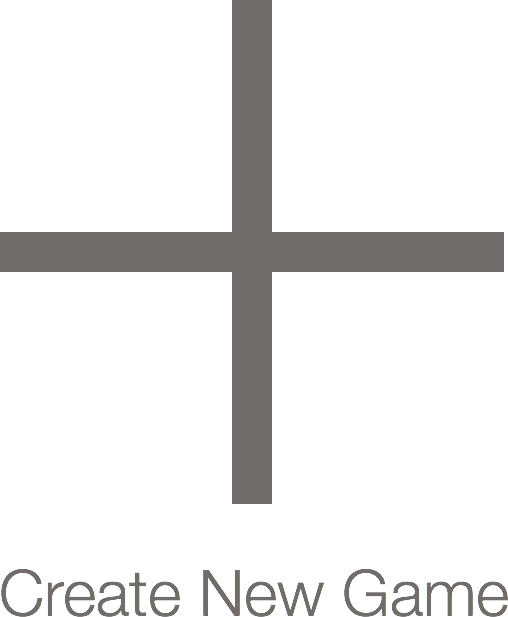
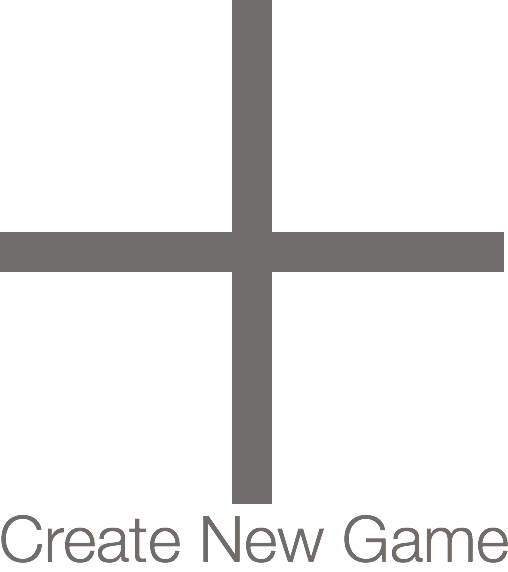
randomized game backgrounds

diff --git a/webapp/app/css/app.css b/webapp/app/css/app.css
@@ -4,23 +4,22 @@
    display: none;
 }
 
-.game-icon {
-  /*height: 100px;
-  width: 200px;
-  margin: 20px;
-  text-align: center;
-  display: inline-block;
-  background-color: #B4DCF0;*/
-  background: url('../img/gamecard-millionaire.png') no-repeat scroll 0 0 transparent;
+.game-icon, .create-icon {
   border-style: none;
-    height: 259.6px;
-    width: 222.8px;
-    background-size: 100% 100%;
-    margin: 10px;
+  height: 259.6px;
+  width: 222.8px;
+  background-size: 100% 100%;
+  margin: 10px;
+}
+
+.game-icon > img, .create-icon > img {
+  width: 222.8px;
+  background-size: 100% 100%;
 }
 
 .title {
-  margin-top: 200px;
+  margin-top: -35px;
+  margin-bottom: 15px;
   color: #646464;
 }
 
@@ -30,18 +29,11 @@
 }
 
 .create-icon {
-  /*height: 100px;
-  width: 200px;
-  margin: 20px;
-  text-align: center;
-  display: inline-block;
-  background-color: #B4DCF0;*/
-  background: url('../img/create-game.png') no-repeat scroll 0 0 transparent;
-  border-style: none;
-    height: 259.6px;
-    width: 222.8px;
-    background-size: 100% 100%;
-    margin: 10px;
+  background-color: #f1f2f7;
+}
+
+.create-icon > img {
+  height: 250px;
 }
 
 .create-icon:hover {

diff --git a/webapp/app/partials/games.html b/webapp/app/partials/games.html
@@ -41,9 +41,11 @@
       <ul id="games" ng-show="games">
         <button class="game-icon" type="link" ng-click="location.path('games/' + game.$id)"
                 ng-repeat="game in games | orderByPriority | filter:filteredGames" style:"line-height:200px">
+          <img ng-src="{{randomImage()}}"></img>
           <div class="title">{{game.title}}</div>
         </button>
         <button class="create-icon" type="link" ng-click="addGame()" style:"margin-top:130px">
+            <img src="img/create-game.png"></img>
         </button>
       </ul>
     </div>

diff --git a/webapp/app/js/controllers.js b/webapp/app/js/controllers.js
@@ -31,6 +31,11 @@ angular.module('edugames.controllers', [])
             $location.path('/games/' + ref.name());
          });
       };
+
+      var randomImages = ["img/gamecard-millionaire.png"];
+      $scope.randomImage = function() {
+         return randomImages[Math.floor(Math.random() * randomImages.length)];
+      }
    }])
 
    .controller('GameCtrl', ['$scope', 'syncData', '$routeParams', function($scope, syncData, $routeParams) {
